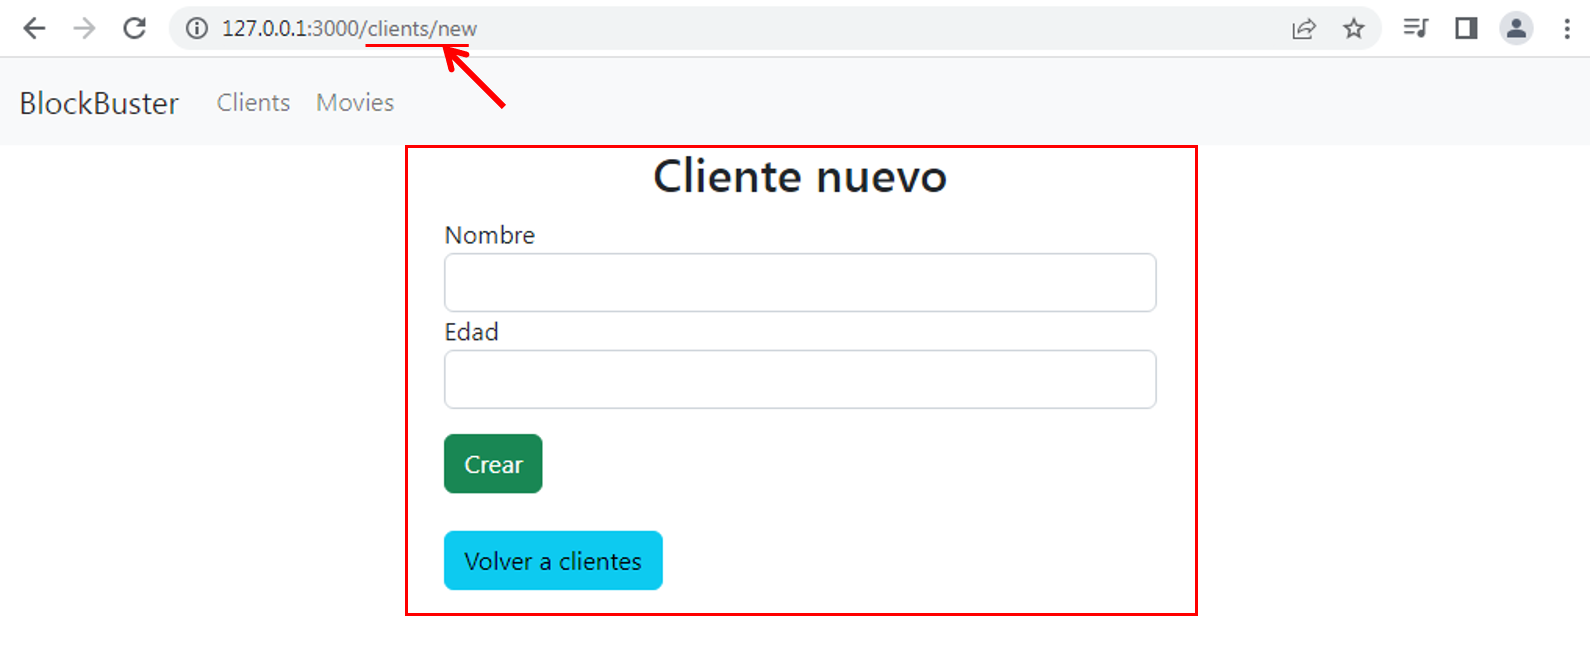
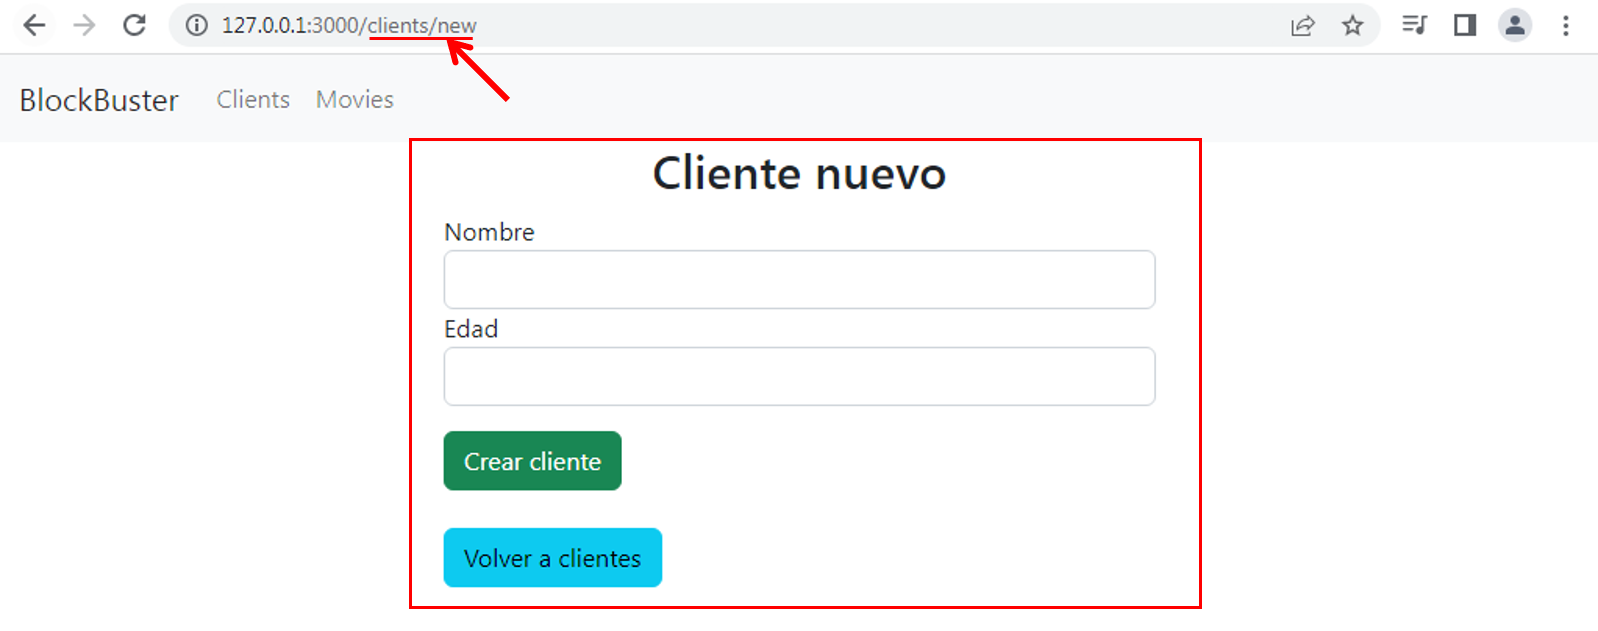
up

diff --git a/desafios/evaluados/m-6/rails_1_blockbuster/index.html b/desafios/evaluados/m-6/rails_1_blockbuster/index.html
@@ -254,17 +254,56 @@
     <%= form.text_field :age, class: "form-control" %>
   &lt;/div&gt;
   &lt;div&gt;
-      <%= form.submit "Crear" , class: "btn btn-success" %>
+      <%= form.submit class: "btn btn-success" %>
   &lt;/div&gt;
 <% end %></code></pre>
 <enidev-button></enidev-button>
   </div>
 </fieldset>
+<p>Ahora remplazamos el contenido en <span class="path">config/locales/en.yml</span>:</p>
+<fielsed class="first">
+  <legend align="center">
+    <strong>Traducir mensajes</strong>
+  </legend>
+  <div class="highlight">
+    <pre><code class="yml hljs">en:
+  activerecord:
+    models:
+      client: cliente
+      movie: "película"
+    helpers:
+      submit:
+        create: "Crear %{model}"
+        update: "Actualizar cambios en %{model}"</code></pre>
+  <enidev-button></enidev-button>
+  </div>
+</fielsed>
 <p>Y como resultado tenemos la vista de nuevo cliente mejorada:</p>
 <figure>
   <img src="assets/clientes-new.png" alt="vista new de clientes" style="box-shadow: 3px 4px 12px #00000018;">
   <figcaption>captura de pantalla: vista de nuevo cliente</figcaption>
 </figure>
+  <p>Ahora le toca al turno a la vista de editar <span class="path">app/views/clients/edit.html.erb</span>:</p>
+  <fieldset class="first">
+    <legend align="center"><strong>Edit - Clientes</strong></legend>
+    <div class="highlight">
+      <pre><code class="hljs html">&lt;h2 align="center"&gt;Editar cliente&lt;/h2&gt;
+&lt;div class="row"&gt;
+  &lt;div class="col-10 col-md-6 mx-auto"&gt;
+    <%= render "form" , client: @client %>
+    &lt;br&gt;
+    <%= link_to "Volver a clientes" , clients_path, class: "btn btn-info" %>
+    <%= link_to "Ver cliente" , @client, class: "btn btn-primary" %>
+  &lt;/div&gt;
+&lt;/div&gt;</code></pre>
+<enidev-button></enidev-button>
+    </div>
+  </fieldset>
+  <p>Y como resultado, tenemos la vista de editar cliente mejorada:</p>
+  <figure>
+    <img src="assets/clientes-edit.png" alt="vista edit de clientes" style="box-shadow: 3px 4px 12px #00000018;">
+    <figcaption>captura de pantalla: vista de editar cliente</figcaption>
+  </figure>
   </div>
   <script type="module" src="./assets/script.js"></script>
   <script src="https://cdnjs.cloudflare.com/ajax/libs/highlight.js/11.7.0/highlight.min.js"></script>
